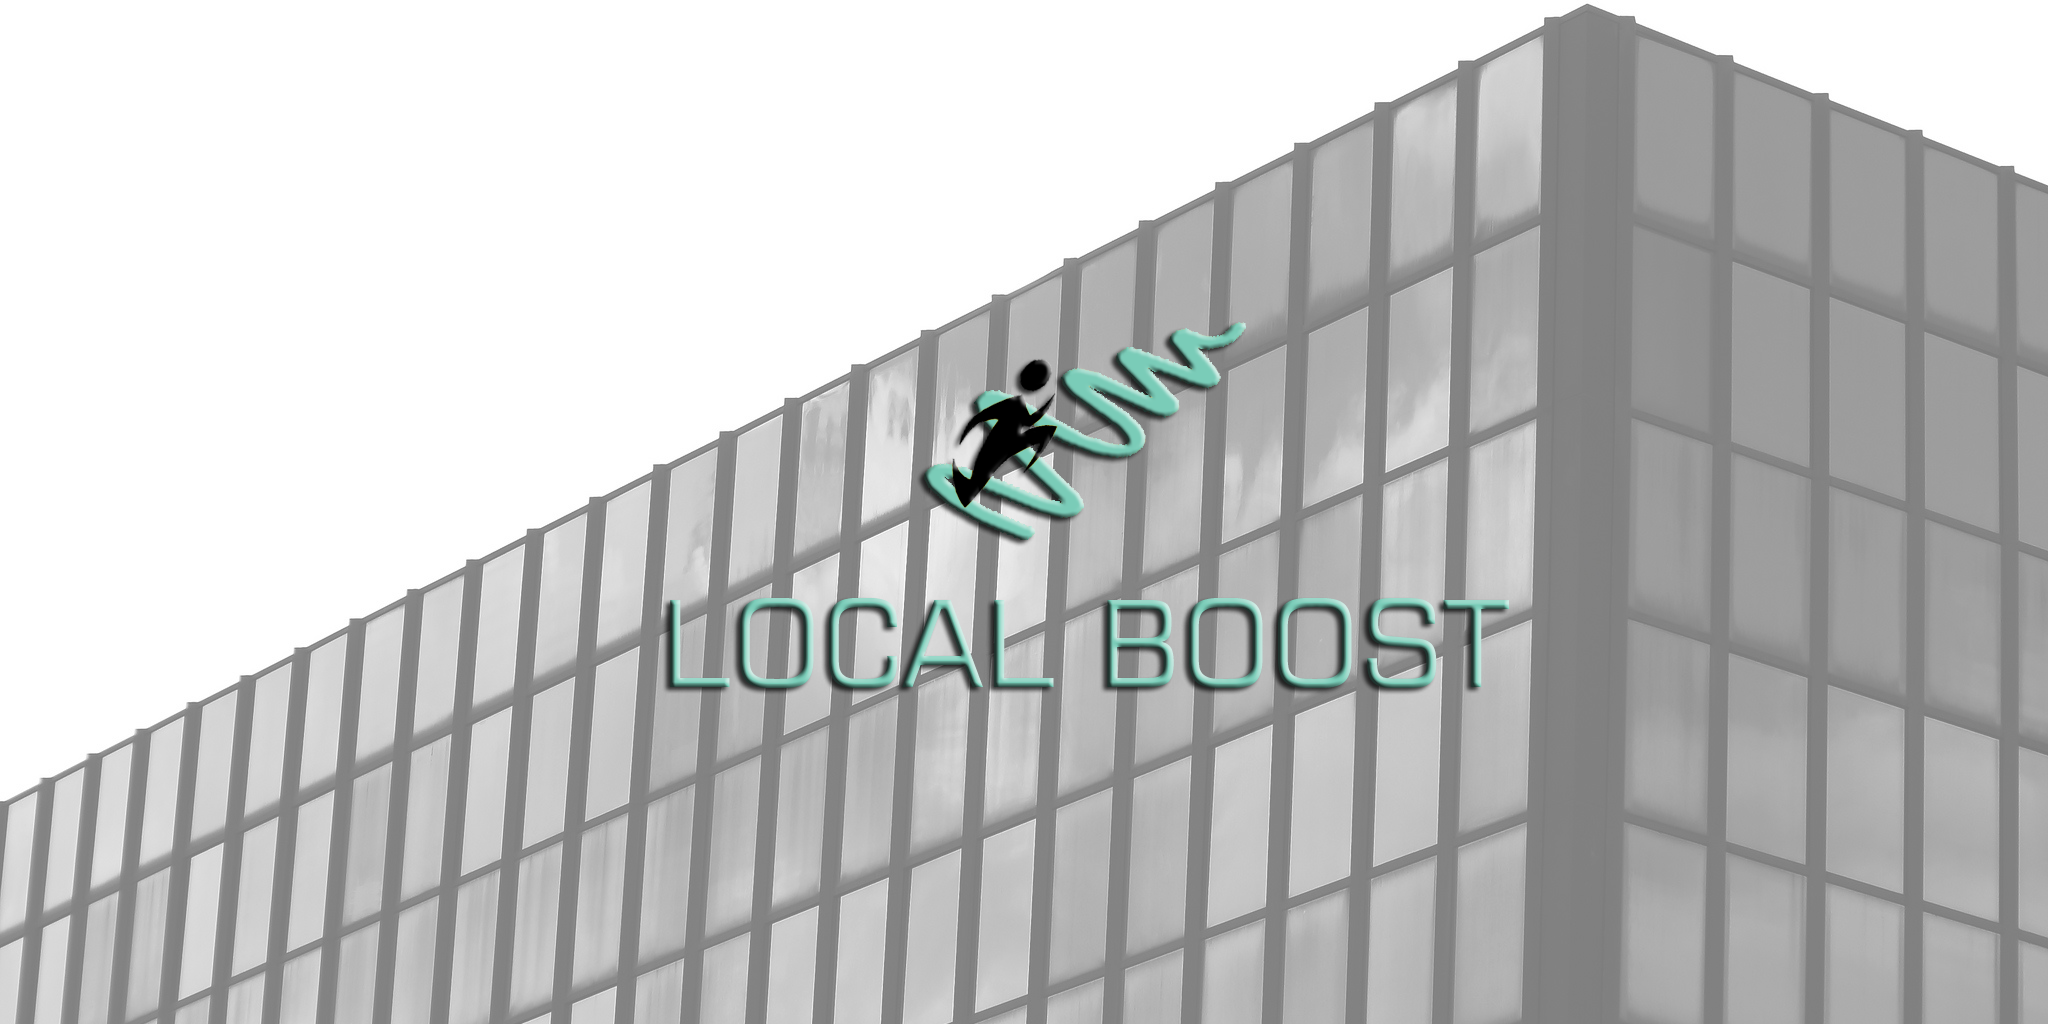
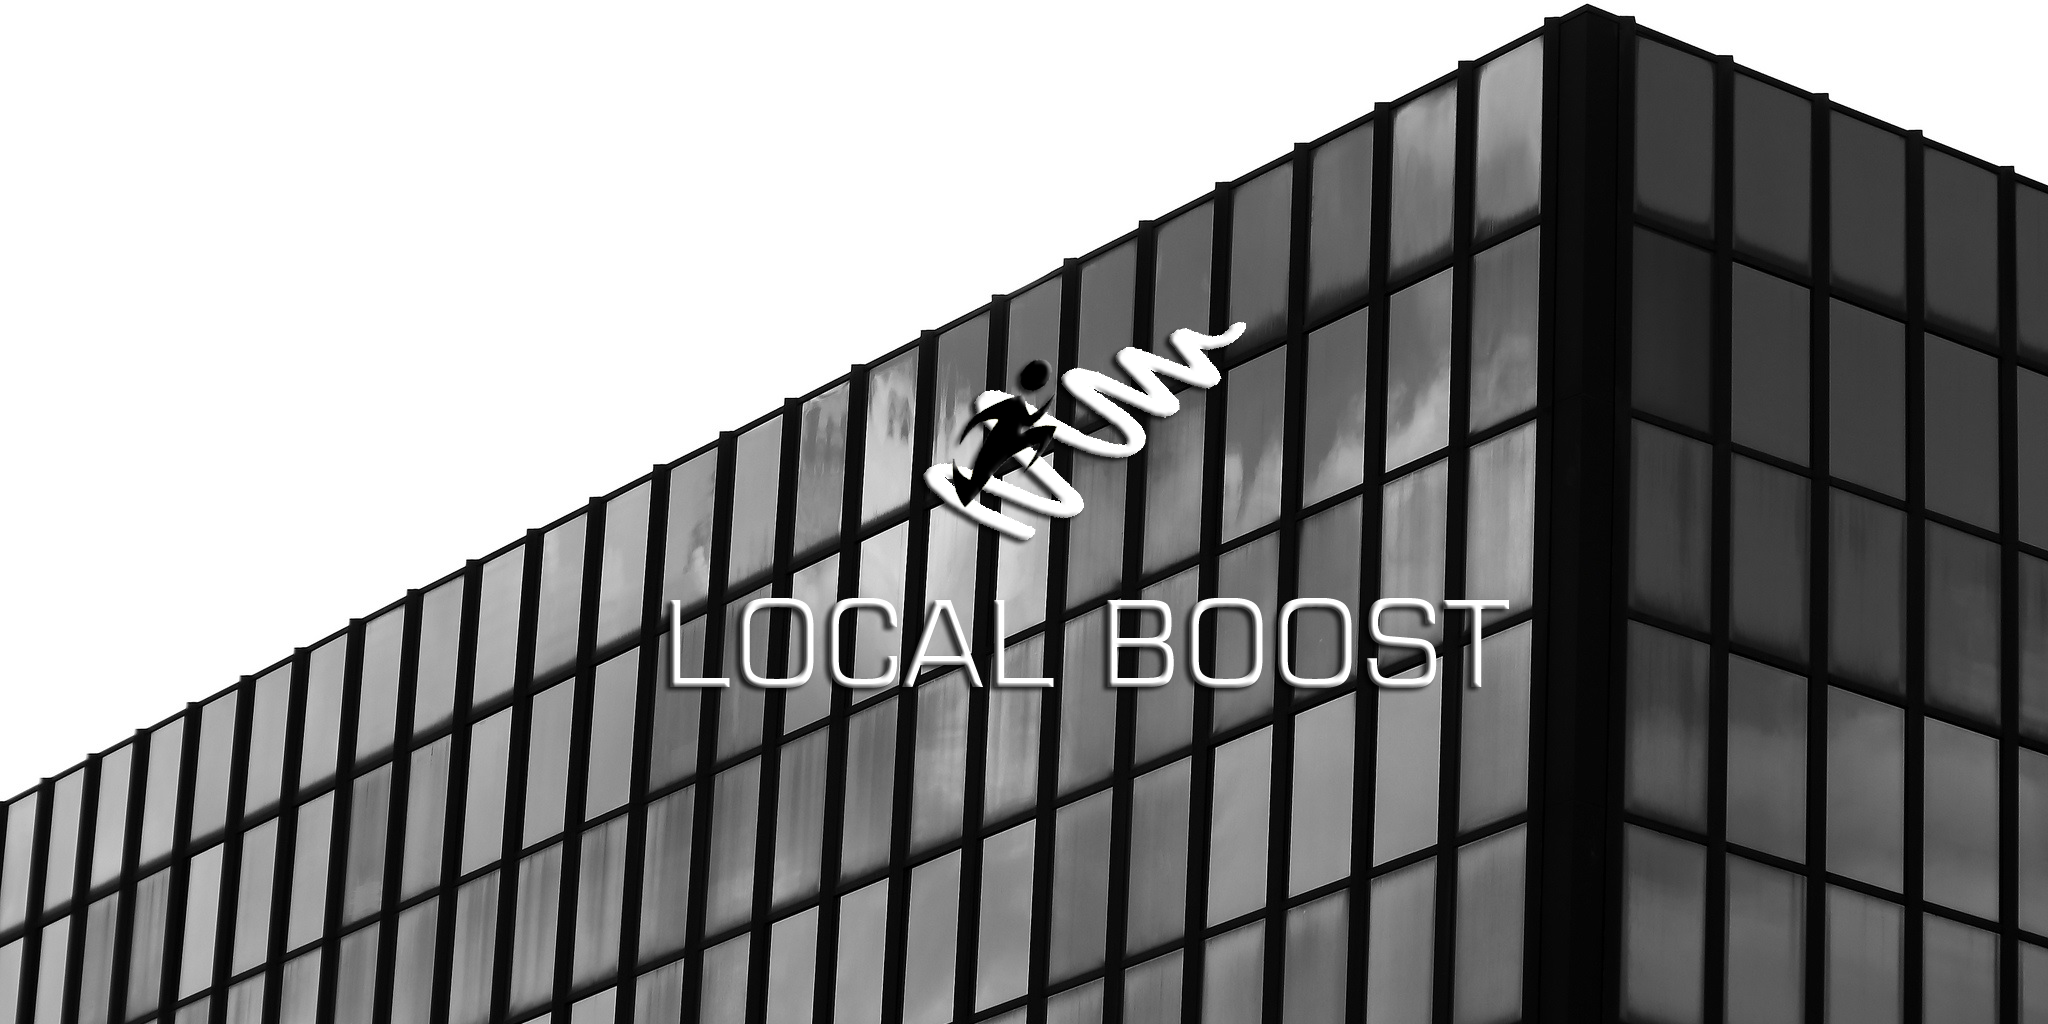
gdadg

diff --git a/css/styles.css b/css/styles.css
@@ -89,14 +89,10 @@ label{width:17%; font-weight: 300;}
     border-color: #388E3C;
     color: white;
 }
-<<<<<<< HEAD
->>>>>>> origin/master
-=======
 
->>>>>>> origin/master
 
 .naziv-projekt{
-    visibility: hidden;
+    display:none;
     height:100%;
     position:absolute;
     top: 0;
@@ -109,15 +105,11 @@ label{width:17%; font-weight: 300;}
     top: 2em;
 }
 
-.naziv-projekt:hover + .avatar-projekt{
+.avatar-projekt:hover + .naziv-projekt{
    display:block;
     
 }
 
-
-.opis-projekt:hover + .avatar-projekt{
-    display:block;
-}
 
 
 

diff --git a/index.php b/index.php
@@ -4,7 +4,7 @@ include 'head.php';
 ?>
 <div id="home">  
       
-      <img src="slike/slikaslika.jpg" alt="početna slika" class="pocetnaslika">
+      <img src="slike/naslovnica.png" alt="početna slika" class="pocetnaslika">
 
     </div>
 
